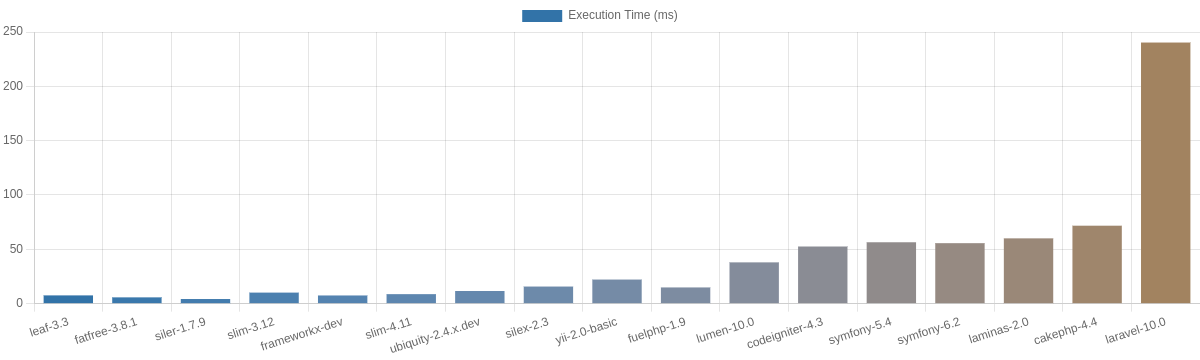
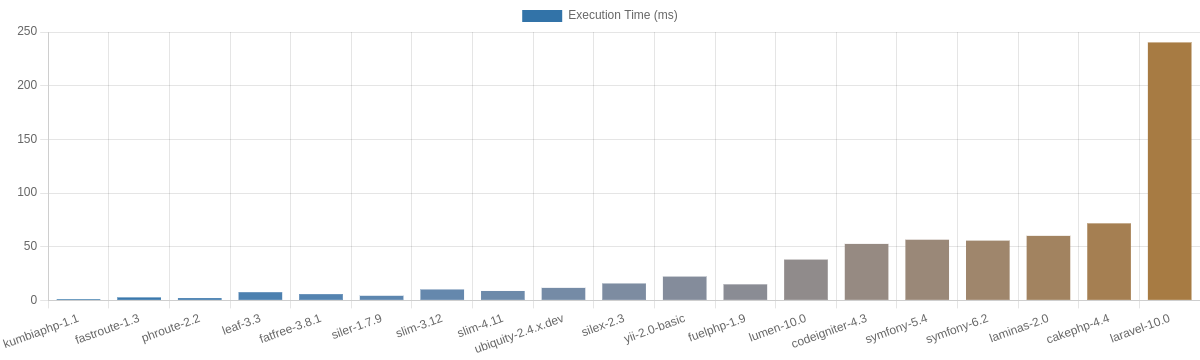
Update for Kumbiaphp

diff --git a/README.md b/README.md
@@ -15,7 +15,7 @@ Benchmarking on components like template engines or ORM/Database libraries is ou
 - [PHP Frameworks Bench](#php-frameworks-bench)
   - [Benchmarks](#benchmarks)
     - [Latest](#latest)
-    - [OPCache](#opcache)
+    - [OPCache On/Off](#opcache-on)
   - [Benchmarking Policy](#benchmarking-policy)
   - [How to Benchmark](#how-to-benchmark)
   - [Commands](#commands)
@@ -34,7 +34,7 @@ Benchmarking on components like template engines or ORM/Database libraries is ou
   * PHP 8.2.5
   * OPCache Off
   * Apache 2.4.52
-  * WRK 4.2.0
+  * WRK 4.2.0 (5 min)
   * CPU Core i7-3770K@4.4Ghz
   * Memory 16G 
 
@@ -51,6 +51,7 @@ These are my benchmarks, not yours. **I encourage you to run on your (production
 |framework          |requests per second (rps)|relative (rps)|peak memory|relative (mem)|
 |-------------------|------------------------:|-------------:|----------:|-------------:|
 |pure-php           |                27,379.94|         282.4|       0.42|           1.0|
+|kumbiaphp-1.1      |                 5,862.48|          60.5|       0.54|           1.3|
 |fastroute-1.3      |                 4,591.01|          47.3|       0.56|           1.3|
 |phroute-2.2        |                 4,303.07|          44.4|       0.58|           1.4|
 |leaf-3.3           |                 1,576.68|          16.3|       1.10|           2.6|
@@ -72,8 +73,8 @@ These are my benchmarks, not yours. **I encourage you to run on your (production
 |laravel-10.0       |                    96.97|           1.0|      11.99|          28.5|
 
 
-#### OPCache
-[![IMAGE ALT TEXT HERE](http://img.youtube.com/vi/Dk8YHQZ6jfY/0.jpg)](http://www.youtube.com/watch?v=Dk8YHQZ6jfY)
+#### OPCache On
+[![Results with OPCache On/Off & How to add your framework](http://img.youtube.com/vi/Dk8YHQZ6jfY/0.jpg)](http://www.youtube.com/watch?v=Dk8YHQZ6jfY)
 
 
 ## Benchmarking Policy
@@ -123,7 +124,6 @@ $ bash check.sh
 3- Run benchmarks:
 
 ```bash
-# bash check.sh -t pure-php
 $ bash benchmark.sh
 ```
 
